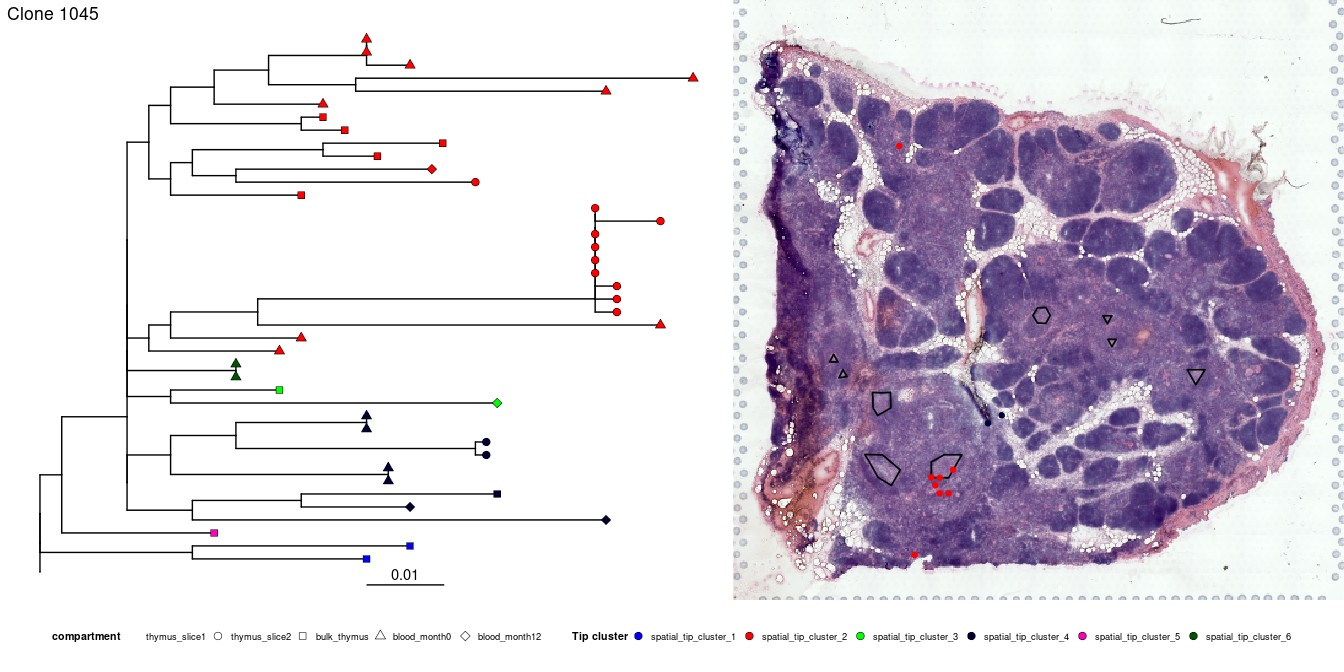
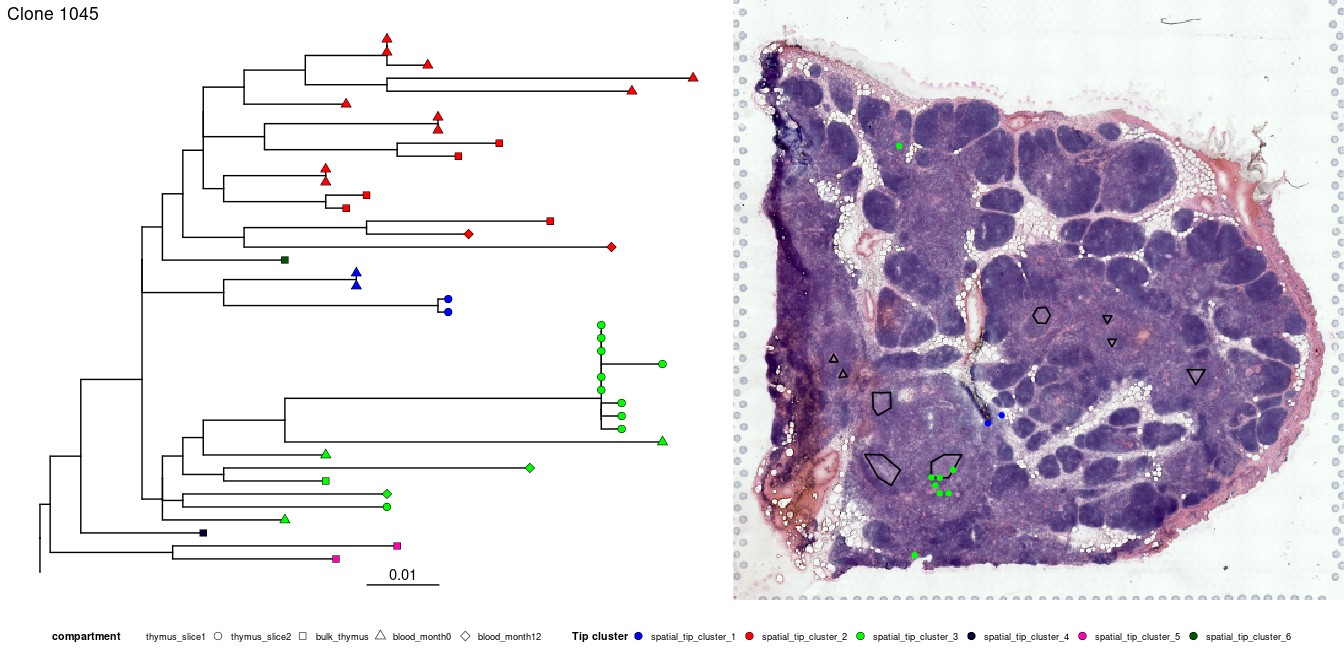
Fix two bulleted lists that did not render on the docs site
Python-Markdown needs a blank line before a list. Add it in the multisample and
regions guides, write the bullets with hyphens, rebuild the pages, and
regenerate the llms files.

diff --git a/docs/vignettes/multisample.md b/docs/vignettes/multisample.md
@@ -19,14 +19,17 @@ or multi-modal AIRR-seq from the same patient. Here, we will build and
 analyze a single SIRUP object that contains two spatial sections, bulk
 thymus BCR-seq, and bulk blood BCR-seq.
 
-The SIRUP object contains \* `spatial`, a named list of spatial Seurat
-objects, one for each section. \* `receptors`, a named list of receptor
-tables, have one for each type of receptor. One table can hold all BCRs,
-including both spatial and bulk data. A `sample` column tells SIRUP
-which sample each row belongs to. \* Rows whose `sample` does not name a
-section stay in the table as non-spatial rows. SIRUP does not put them
-on a tissue, but clone calling, trees, and custom summaries can use
-them.
+The SIRUP object contains
+
+- `spatial`, a named list of spatial Seurat objects, one for each
+  section.
+- `receptors`, a named list of receptor tables, have one for each type
+  of receptor. One table can hold all BCRs, including both spatial and
+  bulk data. A `sample` column tells SIRUP which sample each row belongs
+  to.
+- Rows whose `sample` does not name a section stay in the table as
+  non-spatial rows. SIRUP does not put them on a tissue, but clone
+  calling, trees, and custom summaries can use them.
 
 The MG thymus data come from a patient who had a thymectomy. Besides the
 two Visium sections, there is bulk BCR-seq from the thymus and bulk

diff --git a/docs/vignettes/regions.md b/docs/vignettes/regions.md
@@ -83,10 +83,12 @@ gc_vertices <- selectSpatialPolygons(
 ```
 
 If you’re working with very large or dense data, like Visium HD these
-arguments can help the app respond faster: \* `show_zeros = FALSE` hides
-spots with zero expression, which keeps 0 spots from overwhelming the
-visualization. \* `downsample_n` draws fewer spots, so the app responds
-faster. Each click still snaps to the full set of spots.
+arguments can help the app respond faster:
+
+- `show_zeros = FALSE` hides spots with zero expression, which keeps 0
+  spots from overwhelming the visualization.
+- `downsample_n` draws fewer spots, so the app responds faster. Each
+  click still snaps to the full set of spots.
 
 <div markdown="1"
 style="background: #F7E5BC; padding: 12px; margin-bottom: 24px; line-height: 24px;">
@@ -659,7 +661,7 @@ polygonPairwiseDistance(sirup) %>%
 ## Next steps
 
 - To build lineage trees and visualize them on the tissue, read
-  [Infer clones and lineage trees in situ](clones-and-trees.md).
+  [Infer clones and estimate lineage trees in situ](clones-and-trees.md).
 - To add more sections or bulk AIRR-seq, see
   [Analyze multiple spatial sections and bulk BCR-seq](multisample.md).
 - To test spatial patterns, read
